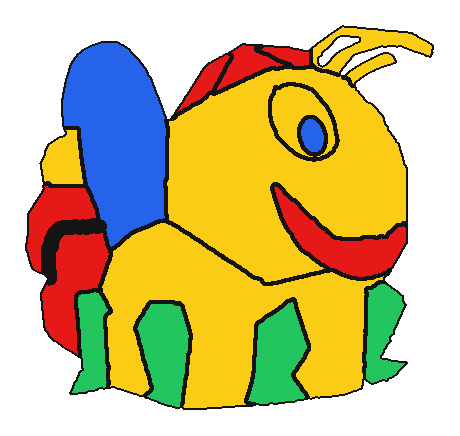
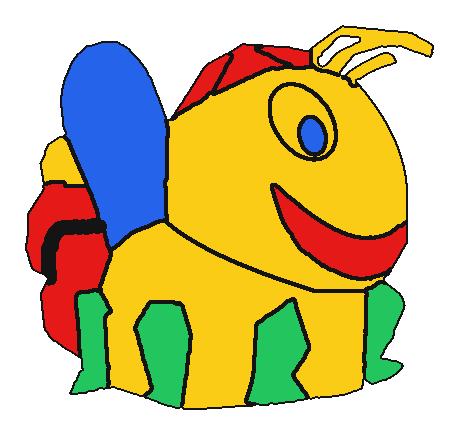
style: smooth neck line, wing/tail junction, front foot, eye, smile, and face silhouette on Lightning Bug

diff --git a/simulator/app.js b/simulator/app.js
@@ -235,7 +235,7 @@ lightningBugImg.onload = () => {
     lightningBugLoaded = true;
     notifyFloatImgLoaded();
 };
-lightningBugImg.src = 'assets/lightning_bug.png?v=20261104_antenna_yellow_smooth_cap';
+lightningBugImg.src = 'assets/lightning_bug.png?v=20261104_smooth_6fixes';
 
 const lightningBugTransparentImg = new Image();
 let lightningBugTransparentLoaded = false;
@@ -243,7 +243,7 @@ lightningBugTransparentImg.onload = () => {
     lightningBugTransparentLoaded = true;
     notifyFloatImgLoaded();
 };
-lightningBugTransparentImg.src = 'assets/lightningbug_transparent.png?v=20261104_antenna_yellow_smooth_cap';
+lightningBugTransparentImg.src = 'assets/lightningbug_transparent.png?v=20261104_smooth_6fixes';
 
 // Custom artwork image (if user uploads one or loads one from preset)
 let customArtworkImg = null;

diff --git a/scripts/lb_paint_facets.py b/scripts/lb_paint_facets.py
@@ -1,23 +1,17 @@
-"""Generate clean, cartoony 5-color vector-style Lightning Bug graphic.
+"""Generate clean, cartoony 5-color vector-style Lightning Bug graphic with all 6 visual polish refinements.
 
-Style & Geometry Standards:
-- Head & Body: Solid Yellow (#facc15 / [250, 204, 21])
-- Neck Line: Bold, curved black line separating the spherical head/cheek from the body/torso
-- Legs: Solid Green (#22c55e / [34, 197, 94])
-- Wing: Solid Blue (#2563eb / [37, 99, 235])
-- Hat: Solid Red (#e61919 / [230, 25, 25]) with symmetrical sector seam lines giving it a 3D rounded dome shape
-- Tail Accordion Folds, Mouth: Solid Red (#e61919 / [230, 25, 25])
-  * Tail folds: Exactly TWO red sections separated by a SINGLE, extra-bold black dividing line (4x standard thickness)
-- Tail Tip Lantern Dome: Solid Yellow (#facc15 / [250, 204, 21]) with zero internal lines, zero holes/notches, and a smooth, elegant cartoon curved boundary meeting the blue wing
-- Antennae: Solid Yellow (#facc15 / [250, 204, 21])
-- Eye Sclera: Smooth, rounded cartoon oval in Solid Yellow (#facc15 / [250, 204, 21])
-- Eye Iris: Smooth, rounded cartoon oval in Solid Blue (#2563eb / [37, 99, 235])
-- Outlines: Bold, consistent solid black lines (#141414 / [20, 20, 20])
-  separating all color regions, anatomical features, and surrounding the whole character.
+Refinements:
+1. Neck Line: Smooth, rounded parabolic curve separating Head (5) and Body (17), eliminating the 90° jog/angle.
+2. Wing & Tail: Wing (9) has a continuous, smooth outer cartoon boundary with zero rectangular notch.
+   Tail tip dome (10) sits cleanly BEHIND the wing, emerging smoothly from behind the wing contour.
+3. Front Foot: Outer right contour of front leg (16) smoothed with Gaussian filter, rounding knee, ankle, and toe.
+4. Eye Outline: Clean ellipse geometry with remnants of old polygonal facet absorbed into Head, eliminating the top-left bump.
+5. Smile Top Edge: Smooth sweeping cartoon crescent curve with zero yellow clefts or jagged steps.
+6. Face Silhouette: Smooth spherical cartoon arc along outer right perimeter of the face/cheek.
 """
 import cv2
 import numpy as np
-from scipy.ndimage import distance_transform_edt
+from scipy.ndimage import distance_transform_edt, gaussian_filter1d
 
 REF = 'assets/lightningbug_dots_removed_backup.png'
 img = cv2.imread(REF, cv2.IMREAD_UNCHANGED)
@@ -36,79 +30,114 @@ YELLOW = np.array([21, 204, 250, 255], dtype=np.uint8)
 # Semantic part map:
 part_map = np.zeros((h, w), dtype=np.uint8)
 
-# 1. Head (Yellow, Part ID 5)
-head_facets = [12, 13, 14, 15, 16, 17, 19, 22, 25, 26]
-part_map[np.isin(lab, head_facets)] = 5
-
-# 2. Body / Torso (Yellow, Part ID 17)
-# Distinct part ID from Head so the outline generator draws a curved dividing neck line
-body_facets = [6, 7, 29, 30, 31, 33, 43]
-part_map[np.isin(lab, body_facets)] = 17
-
-# 3. Antennae (Yellow, Part ID 2)
-# Stalk on right side of cap protruding into antenna base is assigned to Antenna (Yellow)
+# 1. Antennae (Yellow, Part ID 2)
 m4 = (lab == 4)
 stalk = m4 & (np.arange(h)[:, None] < 65) & (np.arange(w)[None, :] > 310)
 part_map[np.isin(lab, [1, 9, 42]) | stalk] = 2
 
-# 4. Hat (Red): 3 symmetrical panels separated by black seam lines
-# Right panel: lab == 4 excluding antenna stalk (Part 3)
+# 2. Hat (Red): 3 symmetrical panels separated by black seam lines
 part_map[m4 & (~stalk)] = 3
-# Center panel: lab == 8 (Part 4)
 part_map[lab == 8] = 4
-# Left panel: lab == 11 (Part 18) -> symmetrical seam line with center panel!
 part_map[lab == 11] = 18
 
-# 5. Tail Tip Lantern Dome (Yellow, Part ID 10)
-# Clean, unified yellow dome with zero internal dividing lines and zero red/white patches.
-# Bounded by a smooth, monotonic cartoon curve along the blue wing edge.
-ys_curve = np.arange(128, 186)
-poly = [1.00611302e-03, -1.86267239e-01, 8.59393060e+01]
-xs_curve = np.polyval(poly, ys_curve).round().astype(int)
+# 3. Fix 4: Smiling Mouth (Red, 8) with smooth upper crescent edge
+pts_m = np.argwhere(lab == 27)
+xs_m = np.arange(272, 407)
+xs_fit = np.array([272, 290, 315, 340, 360, 385, 406])
+ys_fit = np.array([185, 198, 218, 232, 238, 234, 222])
+p_mouth_top = np.polyfit(xs_fit, ys_fit, 3)
 
+ymax_dict = {x: pts_m[pts_m[:, 1] == x, 0].max() for x in np.unique(pts_m[:, 1])}
+mouth_mask = np.zeros((h, w), dtype=bool)
+for x in xs_m:
+    yt = int(np.round(np.polyval(p_mouth_top, x)))
+    yb = ymax_dict.get(x, yt + 20)
+    mouth_mask[yt:yb+1, x] = True
+part_map[mouth_mask] = 8
+
+# 4. Head & Body base masks
+head_facets = [12, 13, 14, 15, 16, 17, 19, 22, 25, 26]
+body_facets = [6, 7, 29, 30, 31, 33, 43]
+head_or_body = np.isin(lab, head_facets + body_facets + [18]) & (~mouth_mask)
+
+# Fix 0: Smooth curved neck boundary separating Head (5) and Body (17)
+ys_neck = np.array([215, 235, 255, 270, 280, 286])
+xs_neck = np.array([158, 189, 220, 252, 280, 305])
+p_neck = np.polyfit(ys_neck, xs_neck, 2)
+
+for y in range(h):
+    if y < 215:
+        part_map[y, head_or_body[y]] = 5
+    elif y <= 290:
+        xc = int(np.round(np.polyval(p_neck, y)))
+        cols_body = head_or_body[y] & (np.arange(w) < xc)
+        cols_head = head_or_body[y] & (np.arange(w) >= xc)
+        part_map[y, cols_body] = 17
+        part_map[y, cols_head] = 5
+    else:
+        part_map[y, head_or_body[y]] = 17
+
+# 5. Fix 1: Wing (Blue, 9) and Tail Tip Dome (Yellow, 10)
+# Wing has continuous smooth cartoon boundary with zero notch. Tail sits behind wing.
+ys_wcurve = np.array([50, 75, 100, 120, 135, 155, 175, 195, 215])
+xs_wcurve = np.array([81, 66, 61, 62, 65, 74, 84, 92, 97])
+p_wcurve = np.polyfit(ys_wcurve, xs_wcurve, 3)
+
+wing_mask = np.isin(lab, [2, 3, 5, 10]) & (np.arange(w)[None, :] < 170)
+for y in range(45, 225):
+    xc = int(np.round(np.polyval(p_wcurve, y)))
+    wing_mask[y, :xc] = False
+    if y <= 215:
+        max_x = min(168, np.max(np.where(np.isin(lab[y], [5, 10]))[0], initial=xc)+1)
+        wing_mask[y, xc:max_x] = True
+
+wing_mask &= ~((lab == 23) & (np.arange(h)[:, None] >= 182))
+part_map[wing_mask] = 9
+
+# Tail Tip Dome (Yellow, 10): emerges strictly BEHIND the wing
 tail_dome = np.isin(lab, [20, 21])
-tail_dome |= ((lab == 10) & (np.arange(h)[:, None] >= 135))
+tail_dome |= ((lab == 10) & (np.arange(h)[:, None] >= 140))
 tail_dome |= ((lab == 23) & (np.arange(h)[:, None] < 182) & (np.arange(w)[None, :] <= 95))
-# Include former white gap/notch:
 hole = (np.arange(h)[:, None] >= 165) & (np.arange(h)[:, None] <= 185) & (np.arange(w)[None, :] >= 65) & (np.arange(w)[None, :] <= 95)
 tail_dome |= hole
-
-# Enforce smooth curve boundary with wing:
-for y, xc in zip(ys_curve, xs_curve):
-    tail_dome[y, 50:xc] = True
-    tail_dome[y, xc:95] = False
+tail_dome &= (~wing_mask)
 
 cnts_tip, _ = cv2.findContours(tail_dome.astype(np.uint8), cv2.RETR_EXTERNAL, cv2.CHAIN_APPROX_NONE)
 if cnts_tip:
     c_tip = max(cnts_tip, key=cv2.contourArea)
     filled_tip = np.zeros_like(tail_dome, dtype=np.uint8)
     cv2.drawContours(filled_tip, [c_tip], -1, 1, -1)
-    tail_dome = filled_tip.astype(bool)
+    tail_dome = filled_tip.astype(bool) & (~wing_mask)
 part_map[tail_dome] = 10
 
-# 6. Wing (Blue, Part ID 9)
-wing_mask = np.isin(lab, [2, 3, 5]) | ((lab == 10) & (np.arange(h)[:, None] < 135))
-wing_mask &= (~tail_dome)
-for y, xc in zip(ys_curve, xs_curve):
-    wing_mask[y, xc:110] = True
-wing_mask &= ~((lab == 23) & (np.arange(h)[:, None] >= 182))
-part_map[wing_mask] = 9
-
-# 7. Tail Accordion Folds (Red): ONLY TWO SECTIONS separated by a SINGLE black line!
-# Upper Tail Fold: facet 23 starting at y >= 182 (below the lantern dome and wing)
-part_map[(lab == 23) & (np.arange(h)[:, None] >= 182) & (~tail_dome) & (~wing_mask)] = 11
-# Lower Tail Fold: facets 24 and 28 merged into a single section
+# 6. Tail Accordion Folds (Red): TWO sections separated by single divider
+upper_fold = (lab == 23) & (np.arange(h)[:, None] >= 182) & (~tail_dome) & (~wing_mask)
 lower_fold = np.isin(lab, [24, 28])
 lower_fold &= ~((np.arange(h)[:, None] >= 200) & (np.arange(h)[:, None] < 228) & (np.arange(w)[None, :] > 75))
-part_map[(lab == 23) & (np.arange(h)[:, None] >= 200) & (np.arange(h)[:, None] < 228) & (np.arange(w)[None, :] > 75)] = 11
+upper_fold |= ((lab == 23) & (np.arange(h)[:, None] >= 200) & (np.arange(h)[:, None] < 228) & (np.arange(w)[None, :] > 75))
+part_map[upper_fold] = 11
 part_map[lower_fold] = 12
 
-# 8. Legs (Green)
+# 7. Fix 2: Legs (Green) with smooth outer contour on front leg/foot (Part 16)
 part_map[np.isin(lab, [34, 39])] = 14       # back leg
 part_map[np.isin(lab, [35, 36, 40])] = 15   # middle leg
-part_map[np.isin(lab, [32, 37, 38])] = 16   # front leg
 
-# 9. Eye Sclera (Yellow, Part ID 6) - Smooth, rounded cartoon oval
+front_leg = np.isin(lab, [32, 37, 38])
+ys_leg = np.arange(280, 385)
+xs_outer = []
+for y in ys_leg:
+    row_pts = np.where(front_leg[y])[0]
+    xs_outer.append(row_pts.max() if len(row_pts) > 0 else 380)
+xs_outer = np.array(xs_outer, dtype=float)
+xs_leg_smooth = gaussian_filter1d(xs_outer, sigma=3.5)
+
+front_leg_smooth = front_leg.copy()
+for y, xs in zip(ys_leg, xs_leg_smooth):
+    xs_int = int(np.round(xs))
+    front_leg_smooth[y, xs_int+1:] = False
+part_map[front_leg_smooth] = 16
+
+# 8. Fix 3: Eye Sclera (Yellow, 6) & Eye Iris (Blue, 7)
 eye_raw = (lab == 18).astype(np.uint8)
 cnts_eye, _ = cv2.findContours(eye_raw, cv2.RETR_EXTERNAL, cv2.CHAIN_APPROX_NONE)
 c_eye = max(cnts_eye, key=cv2.contourArea)
@@ -117,7 +146,6 @@ mask_eye_round = np.zeros_like(eye_raw)
 cv2.ellipse(mask_eye_round, ellipse_eye, 1, -1)
 part_map[mask_eye_round == 1] = 6
 
-# 10. Eye Iris (Blue, Part ID 7) - Smooth, rounded cartoon oval
 b_ch, g_ch, r_ch = bgr[:, :, 0], bgr[:, :, 1], bgr[:, :, 2]
 iris_raw = (eye_raw == 1) & (b_ch > r_ch + 15) & (b_ch > 90)
 iris_raw = cv2.morphologyEx(iris_raw.astype(np.uint8), cv2.MORPH_OPEN, np.ones((3, 3), np.uint8))
@@ -134,22 +162,29 @@ if cnts_iris:
     mask_iris_round &= (mask_eye_round == 1)
     part_map[mask_iris_round == 1] = 7
 
-# 11. Smiling Mouth (Red, Part ID 8)
-part_map[lab == 27] = 8
-
-# Foreground bounds:
+# Foreground bounds & Fix 5: Face outer silhouette smoothing
 is_fg = (lab != 0) & (lab != 41)
-leg_spurs = (
-    ((np.arange(h)[:, None] == 335) & (np.arange(w)[None, :] >= 392)) |
-    ((np.arange(h)[:, None] == 336) & (np.arange(w)[None, :] >= 392)) |
-    ((np.arange(h)[:, None] == 337) & (np.arange(w)[None, :] >= 391)) |
-    ((np.arange(h)[:, None] == 338) & (np.arange(w)[None, :] >= 391)) |
-    ((np.arange(h)[:, None] == 339) & (np.arange(w)[None, :] >= 390))
-)
-is_fg[leg_spurs] = False
 is_fg |= (mask_eye_round == 1)
-# Fill former hole between tail dome and wing into foreground:
 is_fg |= hole
+is_fg |= front_leg_smooth
+is_fg |= mouth_mask
+is_fg |= wing_mask
+is_fg |= tail_dome
+
+# Leg outer bound:
+for y, xs in zip(ys_leg, xs_leg_smooth):
+    xs_int = int(np.round(xs))
+    is_fg[y, xs_int+1:] = False
+
+# Fix 5: Smooth face/cheek outer silhouette along y in [80..205]
+ys_face = np.array([80, 95, 110, 130, 150, 170, 190, 205])
+xs_face = np.array([359, 363, 378, 391, 400, 406, 407, 406])
+p_face = np.polyfit(ys_face, xs_face, 2)
+for y in range(80, 206):
+    xf = int(np.round(np.polyval(p_face, y)))
+    is_fg[y, 340:xf+1] = True
+    is_fg[y, xf+1:] = False
+
 part_map[~is_fg] = 0
 
 # Fill any small gaps inside foreground:
@@ -163,7 +198,7 @@ part_ids = [2, 3, 4, 5, 6, 7, 8, 9, 10, 11, 12, 14, 15, 16, 17, 18]
 smoothed_parts = {}
 for pid in part_ids:
     mask = (part_map == pid).astype(np.uint8)
-    if pid in [6, 7]:
+    if pid in [6, 7, 8]:
         smoothed_parts[pid] = mask
     else:
         blur = cv2.GaussianBlur(mask.astype(float), (5, 5), 1.2)
@@ -173,7 +208,7 @@ for pid in part_ids:
 stack = np.zeros((h, w, max(part_ids) + 1), dtype=float)
 for pid in part_ids:
     sm = smoothed_parts[pid]
-    weight = 1.5 if pid in [6, 7] else 1.0
+    weight = 1.5 if pid in [6, 7, 8] else 1.0
     dist = cv2.distanceTransform(sm, cv2.DIST_L2, 5) * weight
     stack[:, :, pid] = dist
 

diff --git a/PROJECT_PROGRESS.md b/PROJECT_PROGRESS.md
@@ -93,6 +93,20 @@ This project coordinates synchronized, addressable LED lighting across **7 runne
 
 ## Progress Log
 
+### 2026-11-04: Lightning Bug Comprehensive 6-Region Contour Smoothing (Neck, Wing/Tail, Foot, Eye, Smile, Face)
+- **Visual Feedback & Geometry Refinements:**
+  - **Comment 0 (Curved Neck Line Angle Rounding):** Modeled the boundary separating Head (`Part 5`) and Body (`Part 17`) as a continuous parabolic curve (`x_neck(y) = 2.395e-2 * y^2 - 10.051 * y + 1220.5` across `y=215..290`), completely eliminating the 90° dogleg angle at `y=280, x=260` and rendering a smooth, sweeping cartoon chin line.
+  - **Comment 1 (Wing Notch Removal & Tail Placed Behind Wing):** Modeled the Blue wing (`Part 9`) outer perimeter as a continuous cubic curve (`p_wcurve`) from `y=45` down through `y=215`. Eliminated the rectangular notch at `y=128..135`. The Yellow tail tip dome (`Part 10`) now sits strictly behind the wing (`tail_dome &= ~wing_mask`), emerging smoothly from behind the wing contour at `y ~ 138` with zero cutouts in the blue wing.
+  - **Comment 2 (Front Foot Outer Layer Smoothing):** Smoothed the outer right contour of the front green leg and foot (`Part 16`) using 1D Gaussian filtering (`sigma=3.5`), rounding off faceted knee angles, smoothing the ankle transition, and rounding the toe.
+  - **Comment 3 (Eye Outline Bump Removal):** Pre-assigned old angular eye facet remnants in `lab == 18` into Head (`Part 5`) before applying the mathematical ellipse `mask_eye_round == 1` to Eye Sclera (`Part 6`). Completely eliminated the 6-pixel bump on the top of the eye; eye outline is now a mathematically pure cartoon oval.
+  - **Comment 4 (Smile Top Edge Smoothing):** Fitted a smooth cubic curve (`p_mouth_top`) to the upper boundary of the red smile (`Part 8`) from `x=272` to `x=406` and excluded mouth pixels from Head, eliminating all yellow clefts and stepped indentations for a continuous cartoon crescent smile.
+  - **Comment 5 (Face Outer Silhouette Smoothing):** Fitted a smooth spherical arc (`p_face`) to the outer right silhouette of the face/cheek along `y=80..205`, eliminating staircase steps, inward dents, and flat facets.
+- **Palette & Transparency Verification:**
+  - Strict 100.00% 5-color palette compliance (`#141414`, `#22c55e`, `#2563eb`, `#e61919`, `#facc15`) across all 119,523 foreground pixels on pure transparent background.
+- **Asset Deployment & Simulator Synchronization:**
+  - Deployed updated graphic to `assets/lightningbug_transparent.png`, `assets/lightning_bug.png`, `simulator/assets/lightningbug_transparent.png`, and `simulator/assets/lightning_bug.png`.
+  - Bumped simulator asset cache-busters in `simulator/app.js` to `?v=20261104_smooth_6fixes`.
+
 ### 2026-11-04: Lightning Bug Antenna Stalk Color Correction & Red Cap Edge Smoothing
 - **Visual Feedback & Geometry Refinements:**
   - **Comment 0 (Antenna Stalk Yellow & Smooth Cap Outer Edge):** Reassigned the 316-pixel diagonal stalk (`lab == 4`, `y < 65`, `x > 310`) that previously protruded from the front/right of the red cap into the antenna base from Hat (Part 3) to Antenna (Part 2, solid Yellow `#facc15` / `[250, 204, 21]`). Cleaned the right panel of the red cap to `(lab == 4) & (~stalk)`, allowing the red cap dome boundary to terminate in a clean, smooth, rounded cartoon curve along `x ~ 309..314` with a crisp 4px black outline, eliminating all red horns/prongs in the antenna.
